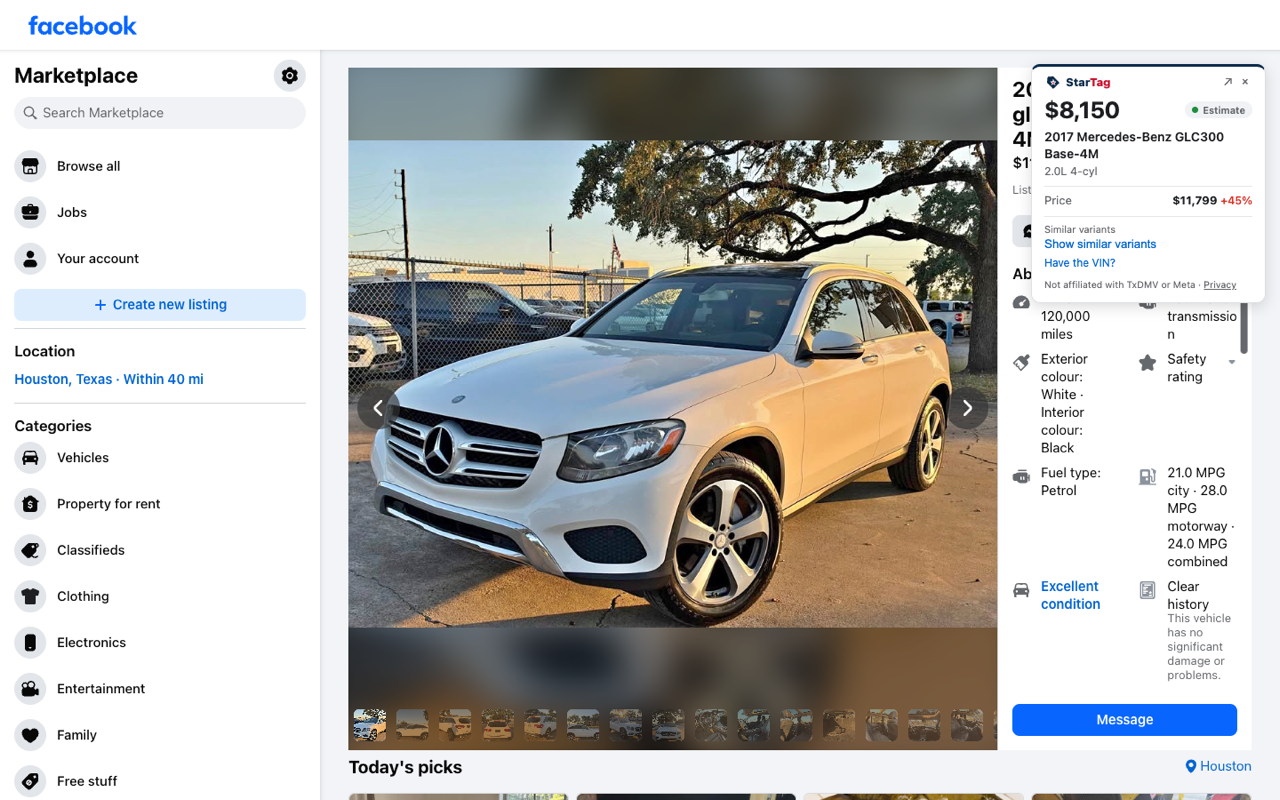
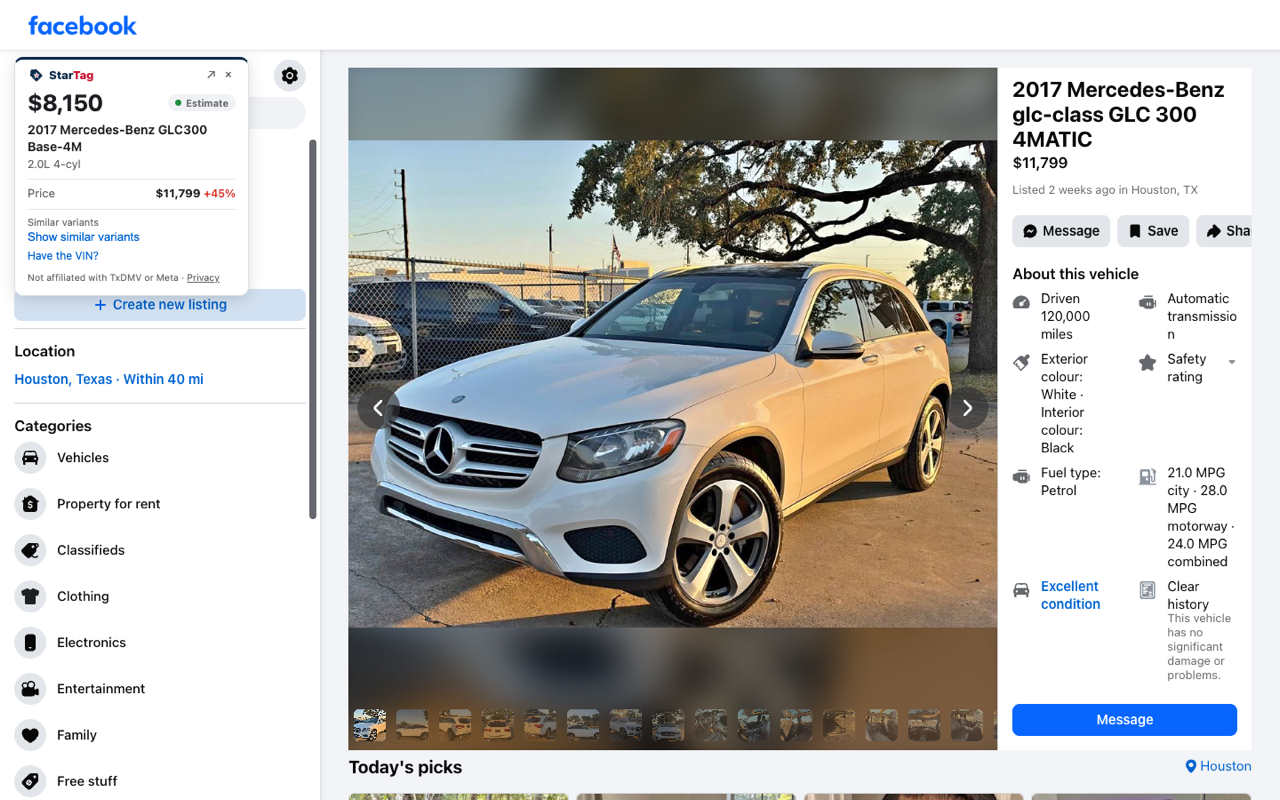
Card no longer covers the listing price; drop the privacy button and the variants crop

diff --git a/index.html b/index.html
@@ -41,7 +41,6 @@
     font-weight: 600; text-decoration: none; border: 1px solid var(--navy);
   }
   .btn.primary { background: var(--navy); color: #fff; }
-  .btn.secondary { background: #fff; color: var(--navy); }
   main section { padding: 48px 0; border-bottom: 1px solid var(--line); }
   main section:last-child { border-bottom: 0; }
   h2 { margin: 0 0 16px; font-size: 26px; color: var(--navy); }
@@ -50,7 +49,6 @@
     width: 100%; height: auto; display: block;
     border: 1px solid var(--line); border-radius: 10px;
   }
-  figure.detail { max-width: 600px; margin: 0 auto; }
   figcaption { margin-top: 8px; font-size: 14px; color: var(--muted); }
   .shots { display: grid; gap: 28px; }
   ul.features { margin: 0; padding-left: 20px; }
@@ -78,7 +76,6 @@
       <p class="sub">A Chrome extension that shows the Texas Standard Presumptive Value (SPV) of the vehicle on a Facebook Marketplace listing, next to the asking price.</p>
       <div class="buttons">
         <a class="btn primary" href="https://chromewebstore.google.com/detail/pbjnpmknihffaicdpihfnhmknekfmiph">Add to Chrome</a>
-        <a class="btn secondary" href="https://gist.github.com/celalertug/ff7214f00de40b35398c74f154c5055e">Privacy policy</a>
       </div>
     </div>
   </div>
@@ -110,13 +107,6 @@
       <p>SPV values come from the TxDMV Standard Presumptive Value calculator (tools.txdmv.gov). For each listing you open, StarTag sends TxDMV a VIN and the listing's mileage, nothing else. It asks before the first lookup.</p>
       <p>StarTag has no server, no account and no tracking; results are kept in your browser so a vehicle is not looked up twice. Details are in the <a href="https://gist.github.com/celalertug/ff7214f00de40b35398c74f154c5055e">privacy policy</a>.</p>
     </div>
-  </section>
-
-  <section>
-    <figure class="detail">
-      <img src="img/variants-card.png" alt="The StarTag card listing similar variants of the GLC 300 with their values" width="600" height="360" loading="lazy">
-      <figcaption>Similar variants of the model, priced on request.</figcaption>
-    </figure>
   </section>
 
   <section>
